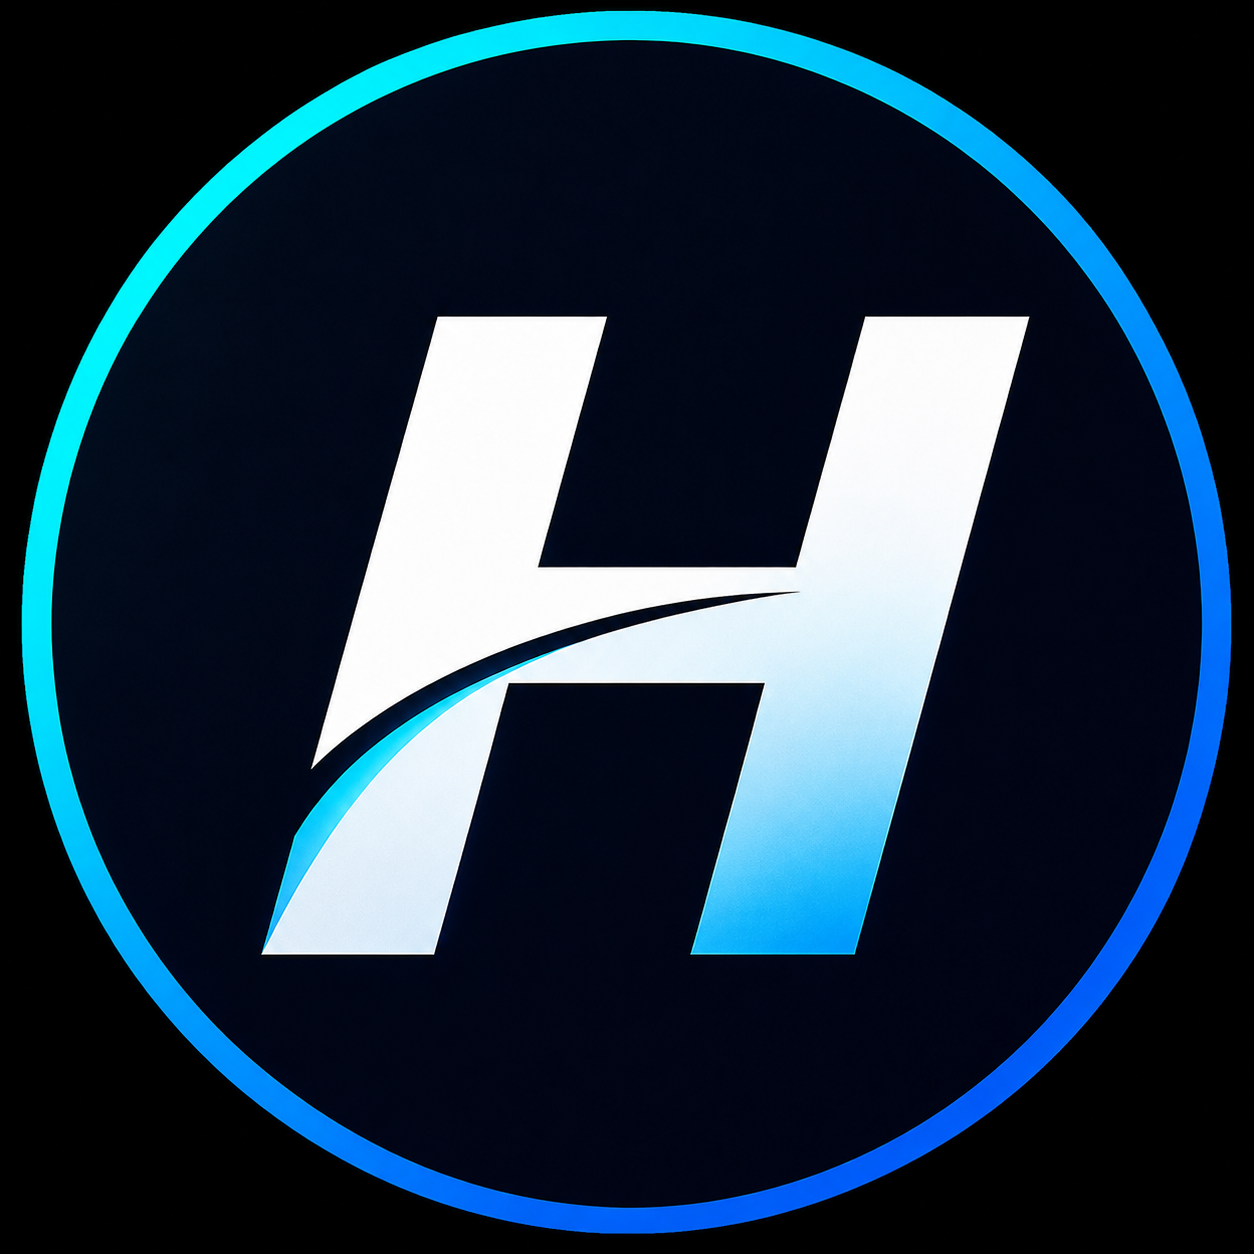
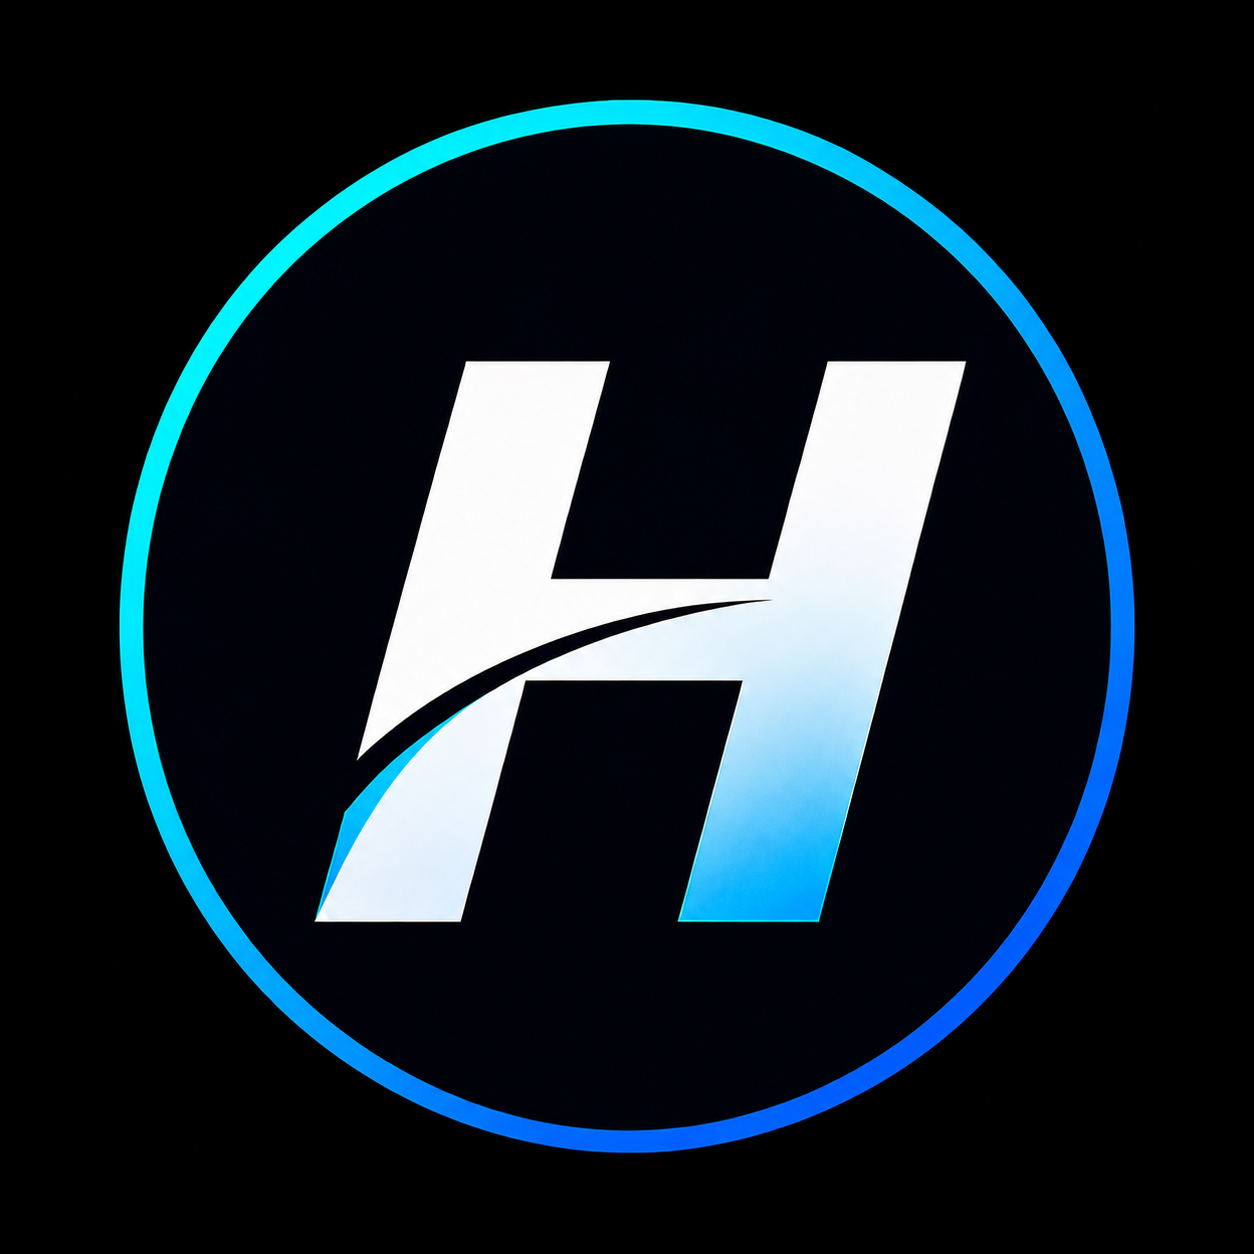
update portfolio

Changed region(s): [[0.0, 0.0, 0.9952, 0.9952]]

diff --git a/components/Navbar.tsx b/components/Navbar.tsx
@@ -1,5 +1,5 @@
 "use client";
-
+import Image from "next/image";
 import { useEffect, useState } from "react";
 
 export default function Navbar() {
@@ -50,10 +50,18 @@ useEffect(() => {
       <div className="max-w-7xl mx-auto flex items-center justify-between px-6 py-4">
         
         {/* Logo */}
-        <h1 className="text-2xl font-extrabold tracking-wide cursor-pointer select-none">
-          <span className="text-cyan-400">Hardik</span>
-          <span className="text-white">.</span>
-        </h1>
+        <h1 className="text-2xl font-extrabold tracking-wide cursor-pointer select-none flex items-center gap-2">
+  <Image
+    src="/hicon.png"
+    alt="Hardik Logo"
+    width={40}
+    height={40}
+    className="rounded-full"
+    priority
+  />
+  <span className="text-cyan-400">Hardik</span>
+  <span className="text-white">.</span>
+</h1>
 
         {/* Desktop Menu */}
         <div className="hidden md:flex items-center gap-8 font-medium">

diff --git a/components/Education.tsx b/components/Education.tsx
@@ -2,24 +2,24 @@ export default function Education() {
   return (
     <section
       id="education"
-      className="relative pt-14 pb-24 px-6 bg-slate-950 text-white overflow-hidden"
+      className="relative py-1 px-6 bg-slate-950 text-white overflow-hidden  "
     >
       {/* Background Glow */}
-<div className="absolute inset-0 -z-10">
+<div className="absolute inset-0 -z-10 ">
   <div className="absolute top-20 left-20 w-72 h-72 bg-cyan-500/10 blur-3xl rounded-full" />
   <div className="absolute bottom-20 right-20 w-72 h-72 bg-blue-500/10 blur-3xl rounded-full" />
 </div>
       <div className="max-w-6xl mx-auto">
-        <p className="text-blue-400 font-semibold mb-2">
+        <p className="text-blue-400 font-semibold mb-1">
           EDUCATION
         </p>
 
-        <h2 className="text-4xl md:text-5xl font-bold mb-12">
+        <h2 className="text-4xl md:text-5xl font-bold mb-11">
           My Education
         </h2>
 
-        <div className="group bg-white/5 backdrop-blur-xl border border-white/10 rounded-2xl p-6 shadow-lg hover:border-cyan-500/40 hover:shadow-cyan-500/20 transition-colors duration-300">
-          <h3 className="text-2xl font-semibold mb-2">
+        <div className="group bg-white/5 backdrop-blur-xl border border-white/10 rounded-2xl p-6 shadow-lg hover:border-cyan-500/40 hover:shadow-cyan-500/20 transition-colors duration-300 -mt-8">
+          <h3 className="text-2xl font-semibold mb-2 ">
             IMSC (CA & IT)
           </h3>
 

diff --git a/components/Projects.tsx b/components/Projects.tsx
@@ -27,7 +27,7 @@ export default function Projects() {
   return (
     <section
       id="projects"
-      className="relative scroll-mt-20 pt-20 pb-20 px-6 bg-slate-950 text-white overflow-hidden"
+      className="relative scroll-mt-20 pt-20 pb-5 px-6 bg-slate-950 text-white overflow-hidden"
     >
       {/* Background Glow */}
       <div className="absolute inset-0 -z-10">
@@ -42,13 +42,13 @@ export default function Projects() {
           whileInView={{ opacity: 1, y: 0 }}
           viewport={{ once: true }}
           transition={{ duration: 0.6 }}
-          className="text-center mb-16"
+          className="text-center mb-14"
         >
-          <p className="text-cyan-400 text:1xl md:text-2xl tracking-[0.1em] uppercase mb-3">
+          <p className="text-cyan-400 text:1xl md:text-2xl tracking-[0.1em] uppercase mb-3 -mt-2">
             Projects
           </p>
 
-          <h2 className="text-4xl md:text-6xl font-bold">
+          <h2 className="text-4xl md:text-6xl font-bold -mt-3">
             My{" "}
             <span className="bg-gradient-to-r from-cyan-400 to-blue-500 bg-clip-text text-transparent">
               Work
@@ -57,7 +57,7 @@ export default function Projects() {
         </motion.div>
 
         {/* Projects Grid */}
-        <div className="grid md:grid-cols-3 gap-8">
+        <div className="grid md:grid-cols-3 gap-8 -mt-10">
           {projects.map((project, index) => (
             <motion.div
               key={project.title}

diff --git a/components/About.tsx b/components/About.tsx
@@ -31,7 +31,7 @@ export default function About() {
             Modern Digital
           </span>
           <br />
-          Experiences
+          <span className="-mt-8">Experiences</span> 
         </h2>
 
         {/* Main Content */}
@@ -47,7 +47,7 @@ export default function About() {
     <div className="absolute -inset-10 bg-cyan-500/10 blur-3xl rounded-full" />
 
     <div className="relative text-center">
-      <div className="w-44 h-44 rounded-full overflow-hidden border-4 border-cyan-400 shadow-lg mx-auto justify-center mt-1">
+      <div className="w-48 h-48 rounded-full overflow-hidden border-4 border-cyan-400 shadow-lg mx-auto justify-center mt-1">
         <Image
           src="/pp.png"
           alt="Parmar Hardik"

diff --git a/components/Contact.tsx b/components/Contact.tsx
@@ -13,7 +13,7 @@ export default function Contact() {
   return (
     <section
       id="contact"
-      className="relative py-28 px-6 bg-slate-950 text-white overflow-hidden scroll-mt-24"
+      className="relative py-25 px-6 bg-slate-950 text-white overflow-hidden scroll-mt-24"
     >
       {/* Background Glow */}
       <div className="absolute inset-0 -z-10">

diff --git a/components/Skills.tsx b/components/Skills.tsx
@@ -29,7 +29,7 @@ export default function Skills() {
   return (
     <section
       id="skills"
-      className="relative scroll-mt-28 py-24 px-6 bg-slate-950 text-white overflow-hidden"
+      className="relative scroll-mt-28 py-40 px-6 bg-slate-950 text-white overflow-hidden"
     >
       {/* Background Glow */}
       <div className="absolute inset-0 -z-10">